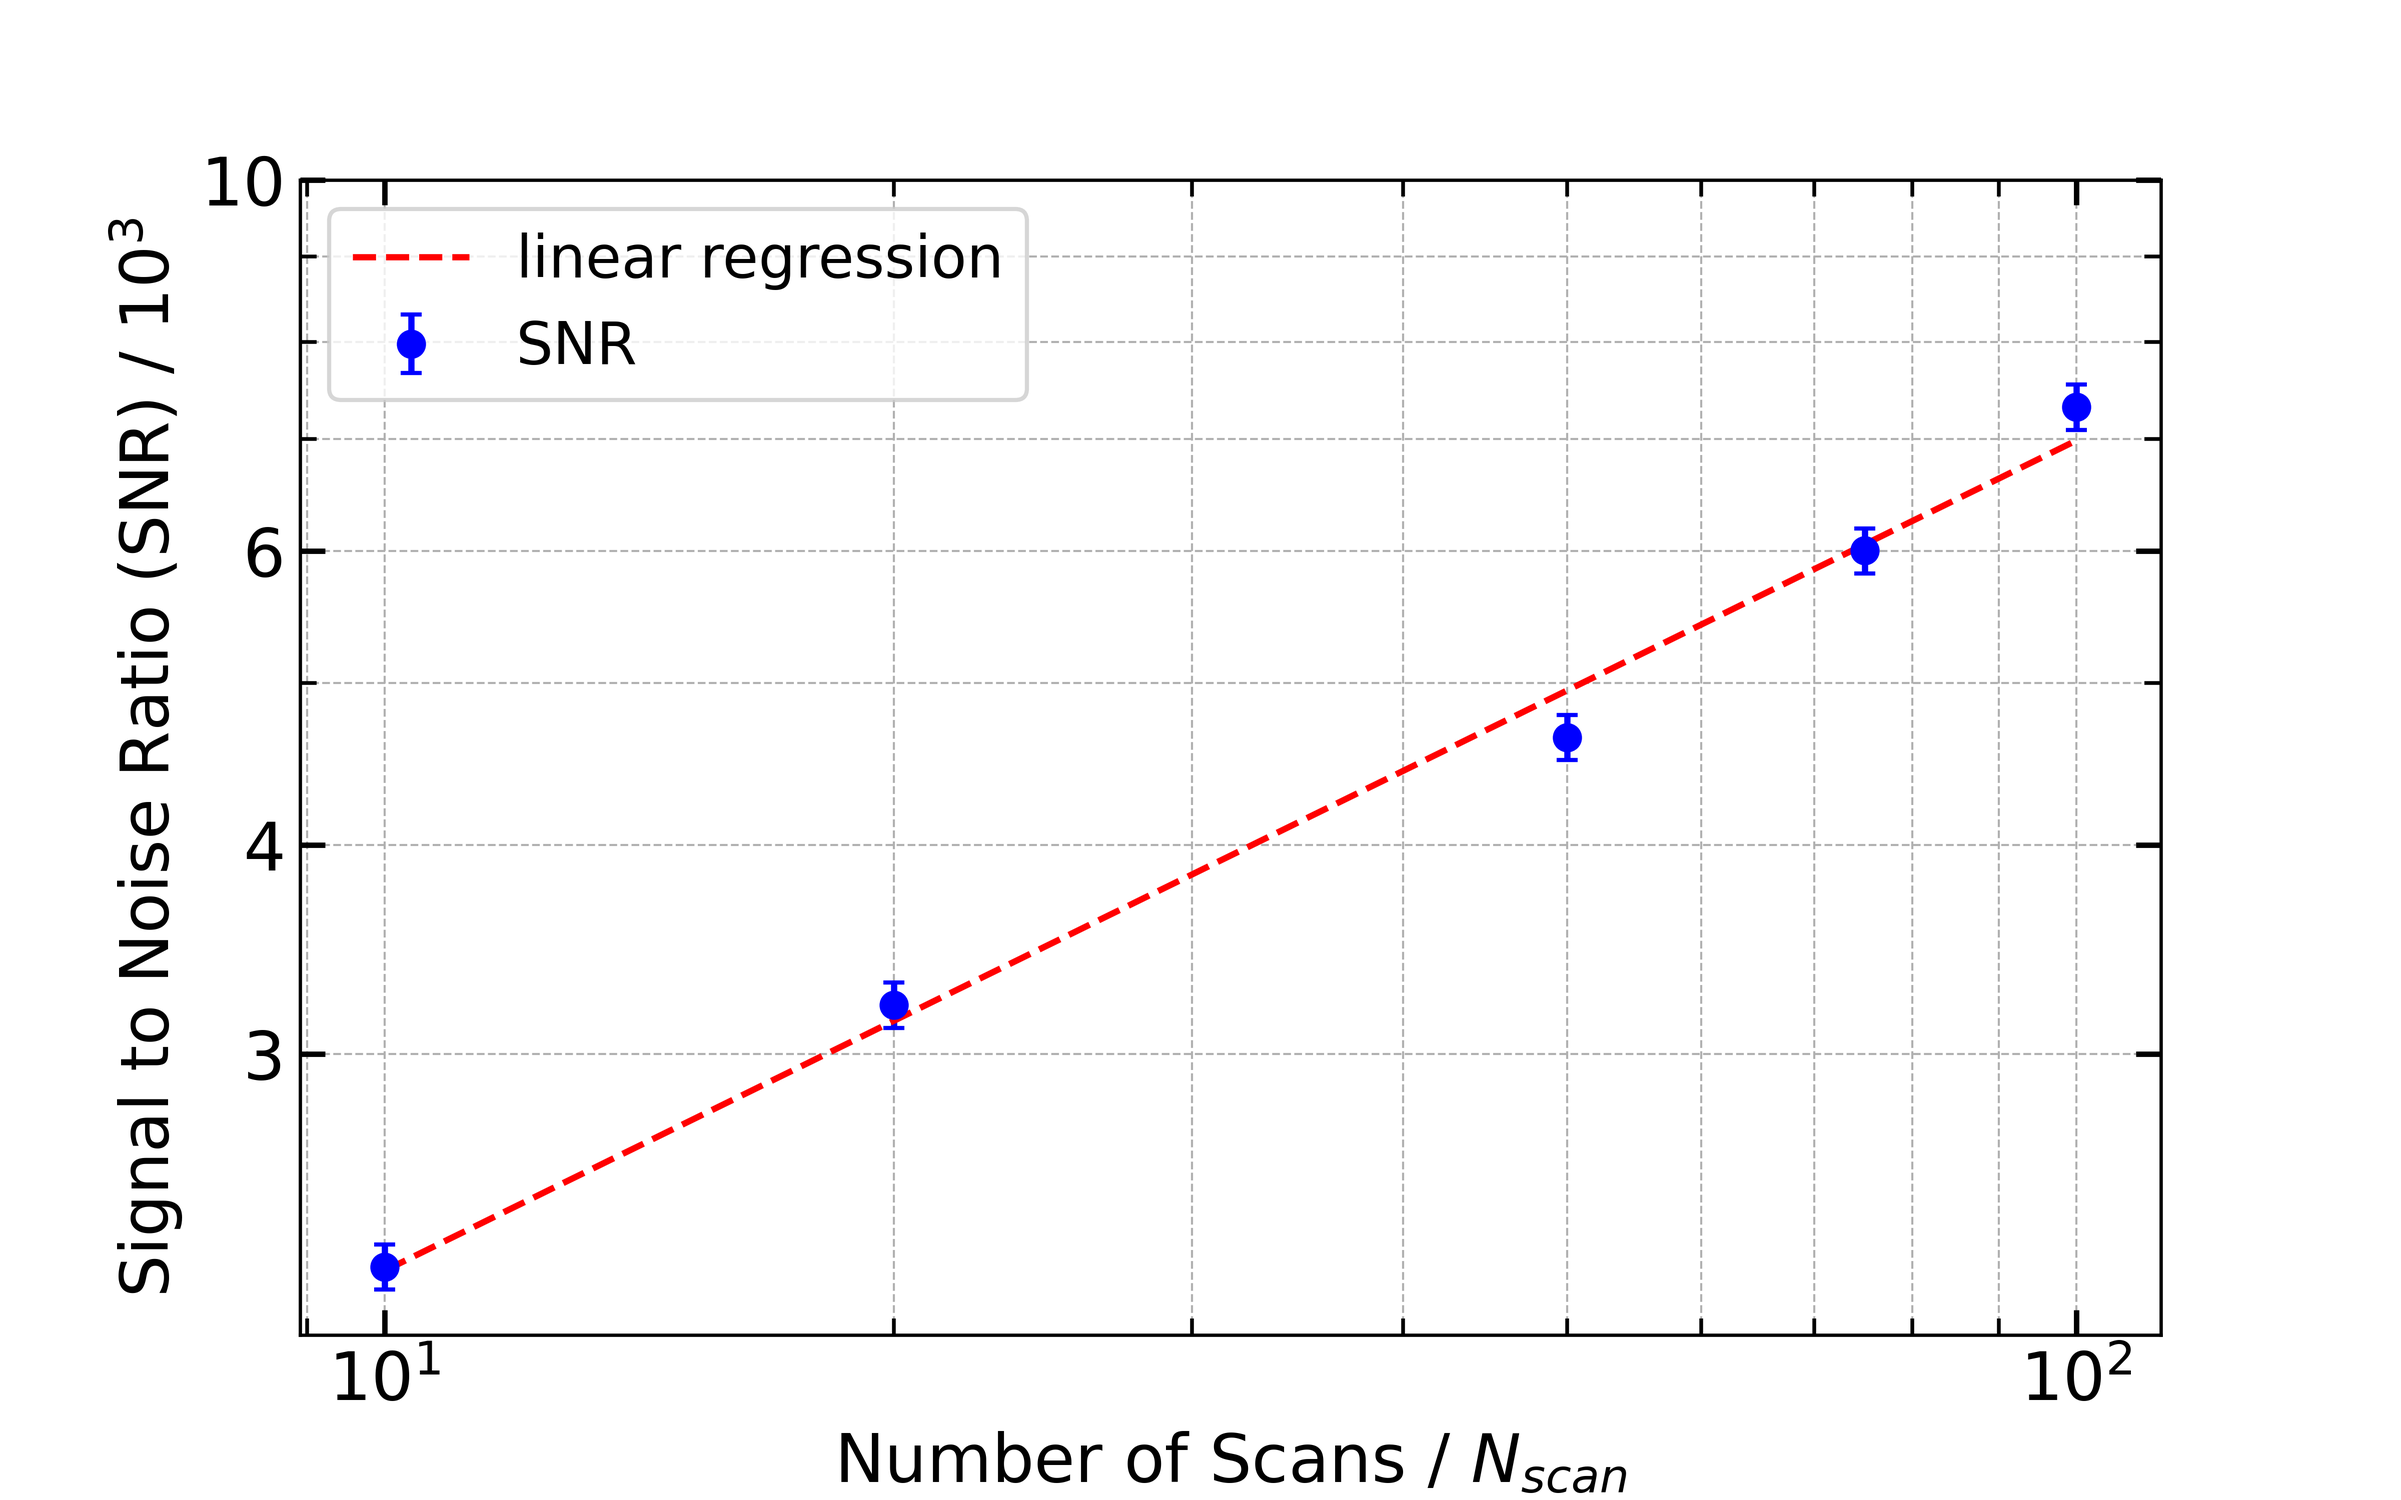
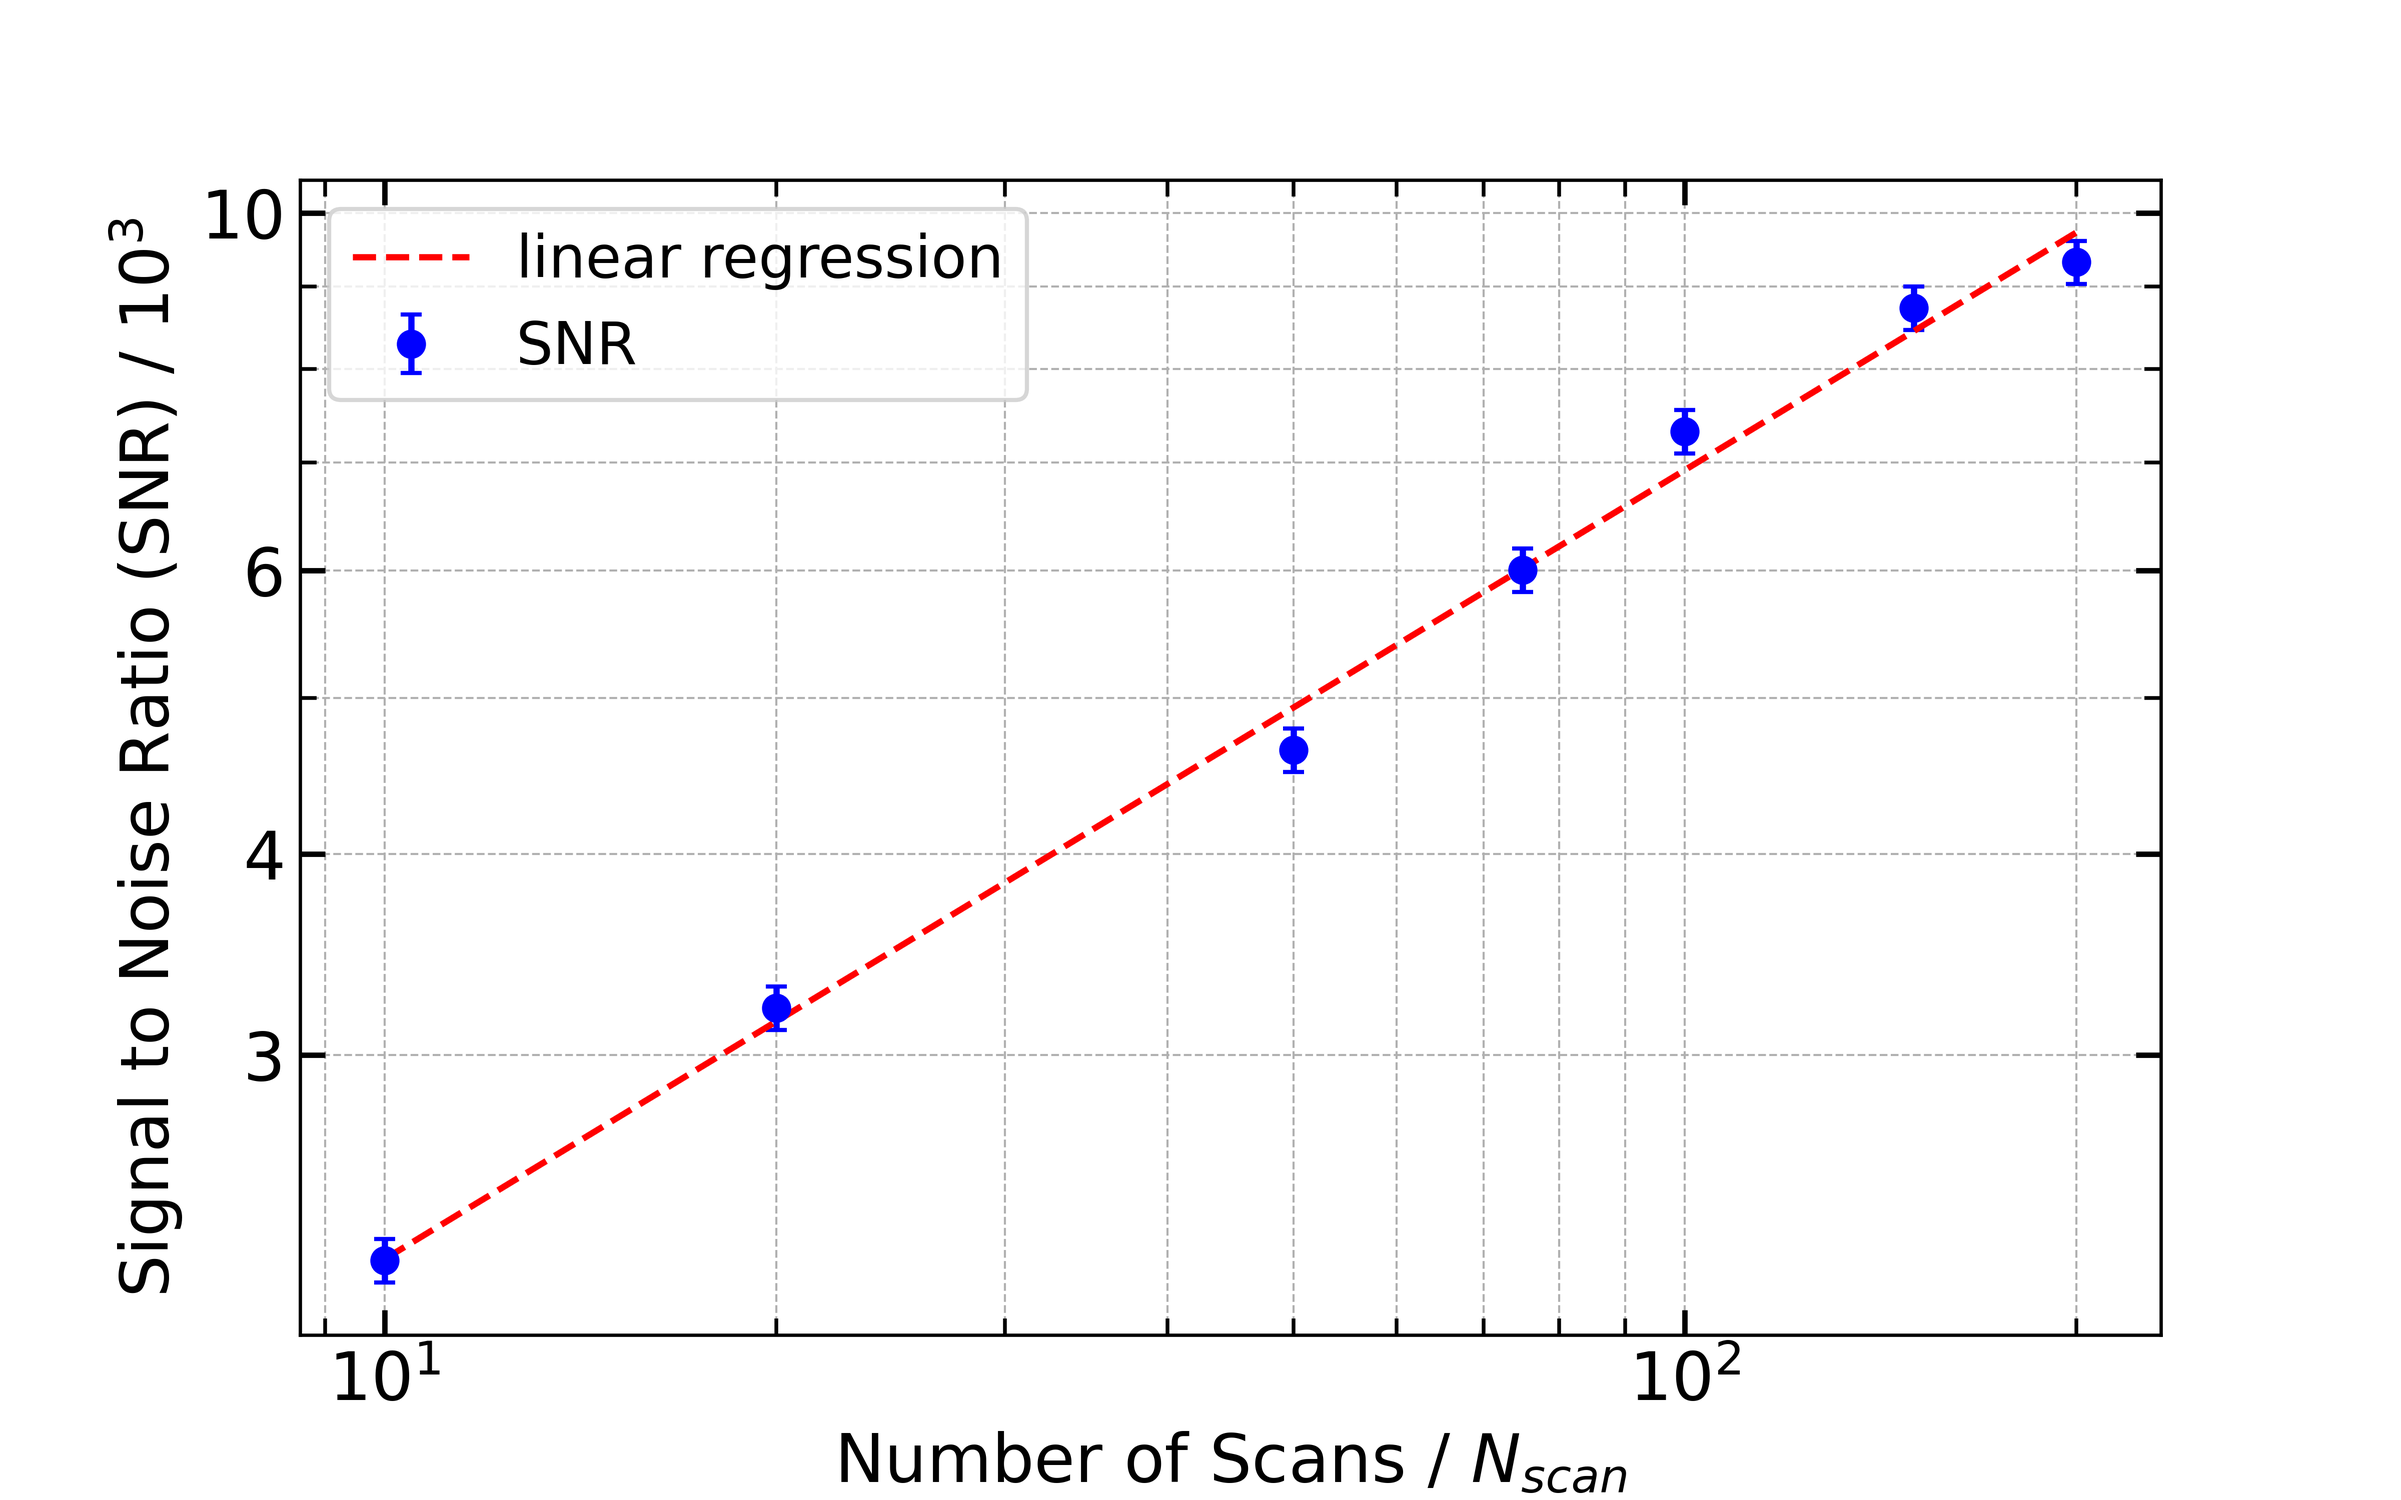
kappasBerechnenAngfang

diff --git a/SolidStateOptics/exp4.py b/SolidStateOptics/exp4.py
@@ -368,6 +368,53 @@ def plot_transmissions(glättwert=0.01):
     save_and_open("Low_Res_Transmissions")
 
 
+
+
+
+
+transmissionGaAsDo = read_dpt_file(r'.\SolidStateOptics\RawData\Transmission_ex3\GaAs_doped_res03_N50_new_normalized.DPT')
+#2000-9000
+transmissionGaAsUnDo = read_dpt_file(r'.\SolidStateOptics\RawData\Transmission_ex3\GaAs_undoped_res03_N50_new_normalized.DPT')
+#2000-10500
+transmissionGaSbDo = read_dpt_file(r'.\SolidStateOptics\RawData\Transmission_ex3\GaSb_doped_res03_N50_new_normalized.DPT')
+#GaSb nicht möglich wegen rauschen
+transmissionSiUnDo = read_dpt_file(r'.\SolidStateOptics\RawData\Transmission_ex3\Si_undoped_res03_N50_normalized.DPT')
+#SiUnDo 2000-8500
+
+samplesOhneSiUnDiscrete = [(transmissionSiUnDo, "Si Undoped", 530*10**-6, 0.0035, 2000, 8500),
+        #(transmissionGaSbDo, "GaSb Doped", 500*10**-6, 69, 69, 69),#geht nicht
+        (transmissionGaAsUnDo, "GaAs Undoped", 470*10**-6, 0.004, 2000, 10500),
+        (transmissionGaAsDo, "GaAs Doped", 440*10**-6, 0.004, 2000, 9000)
+    ]
+
+from countTo50 import calculate_n
+def plot_epxilon_with_scuffed_kappa(windowsize=200):
+    colors = ['blue', 'green', 'red', 'purple', 'orange']  # Add a list of colors
+    for idx, (data, label, d, prominence, nu_min, nu_max) in enumerate(samplesOhneSiUnDiscrete):
+        ns = []
+        nerrors =[]
+        kappas = []
+        for nu in range(nu_min, nu_max, 500):
+            ns.append(calculate_n(data, d, nu, windowsize, prominence=prominence))
+            nerrors.append(0.02 * calculate_n(data, d, nu, windowsize, prominence=prominence))
+            for reflection, transmission, label_kontinuierlich, d in samplesOhneSiUnVergleich:
+                if label == label_kontinuierlich:
+                    kappas = calculate_kappa(reflection, transmission, d)
+                            
+                
+                
+            
+            
+            # ist die dicke der probe
+
+        
+        
+        
+
+        plt.plot([nu for nu in range(nu_min, nu_max, 500)], ns, '.', label=label, markersize=10, color=colors[idx % len(colors)])  # Use color from the list
+
+
+
 #plotKomischeIndirectFunction(reflectionSiUnDo, transmissionSiUnDo, d=530*10**-6, k_min=7500, k_max=11000,
 #                              k1_min_regression=8450, k1_max_regression=9100, k2_min_regression=9450, k2_max_regression=10200,
 #                              glättwert=0.01, title="Si_Undoped")
@@ -378,8 +425,9 @@ def plot_transmissions(glättwert=0.01):
 #plot_the_betas(title="betas", glättwert=0.9)
 
 #plot_the_ns(0.005)
+plot_epxilon_with_scuffed_kappa()
 
-plot_the_ns_vergleich()
+#plot_the_ns_vergleich()
 
 #Die macht keinen Sinn, ist indirekt!! plotKomischeFunktion(reflectionSiUnDo, transmissionSiUnDo, 9000, 11000, 10050, 10250, samplesOhneSiUn[0][3], glättwert=0.1, title="Si Undoped")
 #plotKomischeFunktion(reflectionGaSbDo, transmissionGaSbDo, 5000, 6000, 5600, 5680, samplesOhneSiUn[1][3], factor_GaSb ,glättwert=0.1, title="GaSb Doped")

diff --git a/Paper/macros.tex b/Paper/macros.tex
@@ -6,9 +6,9 @@
 \newcommand{\pulseMatrixElementGaSbDoped}{\left(4.55 \pm 0.21\right)\cdot 10^{-25}\,\text{$m\, kg s^{-1}$}}
 \newcommand{\bandgapSiUndoped}{\left(1.0665 \pm 0.0017\right)\,\text{eV}}
 \newcommand{\hquerOMEGASiUndoped}{\left(5.20 \pm 0.17\right)\cdot 10^{-2}\,\text{eV}}
-\newcommand{\stn}{\left(4.97 \pm 0.25\right)\cdot 10^{-1}}
 \newcommand{\NDichte}{\left(5.900\right)\cdot 10^{28}}
 
 \newcommand{\OMEGASiUndoped}{\left(4.93 \pm 0.16\right) \cdot 10^{32}\,\text{Hz}}
 \newcommand{\bandgapSiUndoped}{\left(1.0665 \pm 0.0017\right) \cdot 10^{0}\,\text{eV}}
 \newcommand{\hquerOMEGASiUndoped}{\left(5.20 \pm 0.17\right) \cdot 10^{-2}\,\text{eV}}
+\newcommand{\stn}{\left(4.90 \pm 0.17\right) \cdot 10^{-1}}

diff --git a/SolidStateOptics/SignaltoNoise.py b/SolidStateOptics/SignaltoNoise.py
@@ -203,12 +203,13 @@ def plotSNR(datasets, x_min, x_max):
 
 # Plot für alle Datensätze
 plot_data(N10, label=r'$N_{scan}$ = 10')
-plot_data(N20, label=r'$N_{scan}$ = 20')
-plot_data(N50, label=r'$N_{scan}$ = 50')
-plot_data(N75, label=r'$N_{scan}$ = 75')
+#plot_data(N20, label=r'$N_{scan}$ = 20')
+#plot_data(N50, label=r'$N_{scan}$ = 50')
+#plot_data(N75, label=r'$N_{scan}$ = 75')
+
 plot_data(N100, label=r'$N_{scan}$ = 100')
-plot_data(N150, label=r'$N_{scan}$ = 150')
-plot_data(N200, label=r'$N_{scan}$ = 200')
+#plot_data(N150, label=r'$N_{scan}$ = 150')
+#plot_data(N200, label=r'$N_{scan}$ = 200')
 save_and_open()
 
 # Plot für die lineare Regression mit allen Datensätzen

diff --git a/SolidStateOptics/countTo50.py b/SolidStateOptics/countTo50.py
@@ -109,6 +109,11 @@ def plot_Discrete_ns_for_comparison(windowsize=200):
             plt.errorbar(nu, ns[-1], yerr=error, fmt='o', color=colors[idx % len(colors)], capsize=5)  # Use color from the list
         plt.plot([nu for nu in range(nu_min, nu_max, 500)], ns, '.', label=label, markersize=10, color=colors[idx % len(colors)])  # Use color from the list
 
+
+
+
+
+
     #plt.grid(True)
     #plt.xlabel(plt.gca().get_xlabel(), fontsize=20)
     #plt.ylabel(plt.gca().get_xlabel(), fontsize=20)

diff --git a/SolidStateOptics/Transmitivity.py b/SolidStateOptics/Transmitivity.py
@@ -11,7 +11,6 @@ x1_inset = 6000
 x2_inset = 6100
 
 
-
 def k_chopper(data, k_min, k_max):
     return [point for point in data if k_min <= point[0] <= k_max]
 
